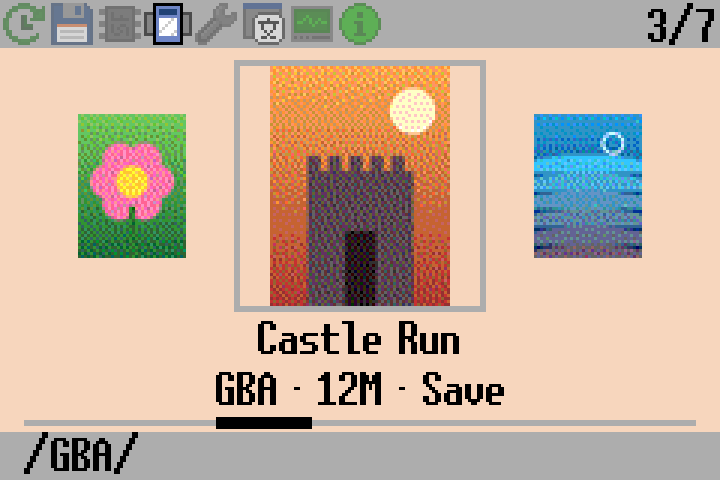
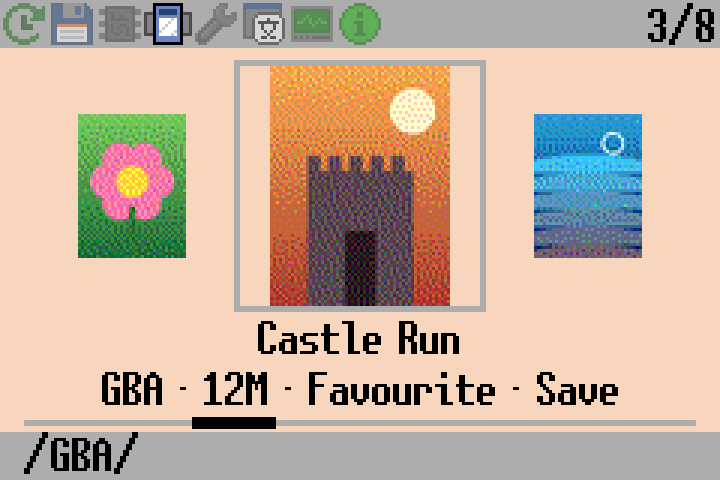
README: view (Start) and favourites, with pictures
- New README sections for the view (Show, Sort by, which file types make
  which system, the top bar, the card root tip) and the favourites.
- tools/carousel-preview.py: --view (a system or Favourites), --sort,
  --popup (the Start pop up), the Favourite tag and the view in the top bar.
- docs/images: the view pop up and a GB/GBC view; the example card has two
  favourites and a second GBC game.

diff --git a/tools/carousel-preview.py b/tools/carousel-preview.py
@@ -99,6 +99,7 @@ class Screen:
   def __init__(self, theme):
     self.px = bytearray([BG]) * (W * H)
     self.objs = []
+    self.bands = []       # Selection highlight rows (icon 63: the highlight color, 50% blended)
     self.theme = theme
 
   def fill(self, left, top, w, h, color):
@@ -151,6 +152,9 @@ class Screen:
       pal[mc.PAL_BASE + i] = c
     img = Image.new("RGB", (W, H))
     img.putdata([pal.get(p, (255, 255, 255)) for p in self.px])
+    for y in self.bands:
+      box = (0, y, W, min(y + 16, H))
+      img.paste(Image.blend(img.crop(box), Image.new("RGB", (W, box[3] - y), pal[HI]), 0.5), box)
     for x, y, n, trans in self.objs:
       ic = icons.crop((n * 16, 0, n * 16 + 16, 16))
       if trans:   # 50% alpha blending (REG_BLDALPHA = 0x0808)
@@ -158,6 +162,19 @@ class Screen:
         ic.putalpha(a)
       img.paste(ic, (x, y), ic)
     return img
+
+# Carousel systems (car_view / "Sort by system"): GBA, then the emulator
+# groups in src/emu.c order.
+SYSTEMS = [("GBA", ("gba",)), ("GB/GBC", ("gb", "gbc")), ("NES", ("nes",)), ("SMS", ("sms",)),
+           ("GG", ("gg",)), ("SG", ("sg",)), ("SV", ("sv",)), ("NGC", ("ngc",)), ("PCE", ("pce",))]
+SORTS = ["Name", "System", "Recently played"]
+
+def system_of(fn):
+  ext = os.path.splitext(fn)[1][1:].lower()
+  for i, (_, exts) in enumerate(SYSTEMS):
+    if ext in exts:
+      return i
+  return 0
 
 def guessicon(fn):
   ext = os.path.splitext(fn)[1][1:].lower()
@@ -185,12 +202,30 @@ def fade(c, target):
     out |= cc << sh
   return out
 
-def render(games, covers, sel, offset, cpath, theme, icons, tint=None, info=None, letter=False):
+def render_view_popup(s, view, sort, row):
+  # Like render_carousel_view(): the Start pop up over the plain background.
+  s.fill(0, 16, W, H - 16, BG)
+  for y in (18, 19, 156, 157):
+    s.fill(2, y, W - 4, 1, FG)
+  s.fill(2, 18, 2, 140, FG)
+  s.fill(W - 4, 18, 2, 140, FG)
+  for i, (label, value) in enumerate((("Show", view), ("Sort by", sort))):
+    y = 34 + i * 54
+    s.central(label, W // 2, y)
+    s.central("< %s >" % value, W // 2, y + 20)
+    if i == row:
+      s.bands.append(y + 20)
+
+def render(games, covers, sel, offset, cpath, theme, icons, tint=None, info=None, letter=False,
+           view=None, popup=None):
   s = Screen(theme)
   # Tab bar
   s.fill(0, 0, W, 16, FG)
   for i, ic in enumerate(TAB_ICONS):
     s.icon(i * 16, 0, ic, i != CAROUSEL_TAB)
+  if popup:
+    render_view_popup(s, *popup)
+    return s.image(icons, tint)
   s.fill(0, 16, W, 128, CAR_BG)
   # Bottom bar: folder of the selected game
   s.fill(0, 144, W, 16, FG)
@@ -234,6 +269,8 @@ def render(games, covers, sel, offset, cpath, theme, icons, tint=None, info=None
     s.text(title, 8, 105, maxw=W - 8)
   parts = [os.path.splitext(fn)[1][1:].upper(), human_size(fs)]
   if info and offset == 0:
+    if info.get("fav"):
+      parts.append("Favourite")
     if info.get("save"):
       parts.append("Save")
     if info.get("last"):
@@ -246,7 +283,10 @@ def render(games, covers, sel, offset, cpath, theme, icons, tint=None, info=None
     x = 8 + (((track - w) * sel // (len(games) - 1)) & ~1)
     s.fill(8, 140, track, 2, FG)
     s.fill(x, 139, w, 4, FT)
-  s.rightj("%d/%d" % (sel + 1, len(games)), W - 1, 1)
+  pos = "%d/%d" % (sel + 1, len(games))
+  if view and text_width("%s %s" % (view, pos)) <= 92:    # Next to the tab icons
+    pos = "%s %s" % (view, pos)
+  s.rightj(pos, W - 1, 1)
 
   if letter:
     ch = title[:1].upper()
@@ -278,7 +318,14 @@ def game_info(sdroot, games, n):
           break
   except OSError:
     pass
-  return {"save": save, "last": last}
+  return {"save": save, "last": last, "fav": folder + fn in favourites(sdroot)}
+
+def favourites(sdroot):
+  try:
+    with open(os.path.join(sdroot, ".superfw", "favorites.txt"), encoding="utf-8") as fd:
+      return {line.rstrip("\r\n") for line in fd}
+  except OSError:
+    return set()
 
 def main():
   p = argparse.ArgumentParser()
@@ -290,6 +337,10 @@ def main():
   p.add_argument("--theme", type=int, default=0)
   p.add_argument("--scale", type=int, default=3)
   p.add_argument("--letter", action="store_true", help="Show the big letter (as after an Up/Down jump)")
+  p.add_argument("--view", default=None, help="Show only: Favourites or a system (GBA, GB/GBC, NES...)")
+  p.add_argument("--sort", default="Name", choices=SORTS, help="Order of the games")
+  p.add_argument("--popup", type=int, default=None, metavar="ROW",
+                 help="Show the Start pop up (view and sort) with this row selected (0 or 1)")
   a = p.parse_args()
 
   romdir = os.path.join(a.sdroot, a.romdir.strip("/\\"))
@@ -307,6 +358,15 @@ def main():
       if not fn.startswith(".") and ext in mc.SYSTEMS:
         games.append((fn, os.path.getsize(full), folder, full))
   games.sort(key=lambda g: g[0].lower())
+
+  # View (Start): filter and order, like carousel_build_view().
+  if a.view == "Favourites":
+    favs = favourites(a.sdroot)
+    games = [g for g in games if g[2] + g[0] in favs]
+  elif a.view:
+    games = [g for g in games if SYSTEMS[system_of(g[0])][0] == a.view]
+  if a.sort == "System":
+    games.sort(key=lambda g: system_of(g[0]))     # Stable: by name within a system
 
   # Same lookup as carousel_open_cover(): <file name>.cov, then <game code>.cov
   covers = {}
@@ -328,7 +388,9 @@ def main():
   sel = min(a.select, max(0, len(games) - 1))
   tint = target_tint(a.theme, covers.get(games[sel][3])) if games else None
   info = game_info(a.sdroot, games, sel) if games else None
-  up(render(games, covers, sel, 0, cpath, a.theme, icons, tint, info, a.letter)).save(a.out)
+  popup = (a.view or "All games", a.sort, a.popup) if a.popup is not None else None
+  up(render(games, covers, sel, 0, cpath, a.theme, icons, tint, info, a.letter,
+            a.view, popup)).save(a.out)
   print("Wrote", a.out)
 
   if a.gif and games:

diff --git a/docs/images/make-examples.py b/docs/images/make-examples.py
@@ -27,6 +27,7 @@ GAMES = [
   ("Deep Blue Dive.gba",   ((40, 160, 220), (5, 30, 90)),   "waves"),
   ("Ember Knight.gba",     ((60, 10, 10), (220, 90, 20)),   "sword"),
   ("Frost Peak.gbc",       ((200, 230, 255), (90, 140, 210)), "mountain"),
+  ("Moon Garden.gbc",      ((20, 30, 70), (70, 40, 110)),   "moon"),
   ("Pixel Racer.nes",      ((250, 220, 60), (230, 120, 20)), "stripes"),
 ]
 
@@ -72,6 +73,12 @@ def cover(colors, kind, w=240, h=320):
     d.polygon([(0, 320), (120, 90), (240, 320)], fill=(70, 90, 140))
     d.polygon([(120, 90), (90, 150), (110, 140), (130, 155), (150, 145)], fill=(250, 250, 255))
     d.ellipse((170, 30, 215, 75), fill=(255, 250, 220))
+  elif kind == "moon":
+    d.ellipse((60, 50, 180, 170), fill=(250, 240, 190))
+    d.ellipse((95, 40, 205, 150), fill=(20, 30, 70))
+    for x in range(0, 240, 30):
+      d.ellipse((x, 250, x + 40, 290), fill=(60, 140, 80))
+      d.rectangle((x + 18, 270, x + 22, 320), fill=(40, 100, 50))
   elif kind == "stripes":
     for i in range(6):
       d.polygon([(i * 60 - 80, 320), (i * 60 - 20, 320), (i * 60 + 100, 0), (i * 60 + 40, 0)],
@@ -92,14 +99,20 @@ def main():
         fd.truncate((4 << 20) * (1 + i % 4))        # Only the size is used
       with open(os.path.join(covers, fn + ".cov"), "wb") as fd:
         fd.write(mc.cover_bytes(cover(colors, kind)))
-    # A save for one of them (shown in the info line).
+    # A save for one of them (shown in the info line), and two favourites.
     open(os.path.join(gba, "Castle Run.sav"), "wb").close()
+    os.makedirs(os.path.join(sd, ".superfw"), exist_ok=True)
+    with open(os.path.join(sd, ".superfw", "favorites.txt"), "w", encoding="utf-8") as fd:
+      fd.write("/GBA/Castle Run.gba\n/GBA/Frost Peak.gbc\n")
 
     preview = [sys.executable, os.path.join(TOOLS, "carousel-preview.py"), sd, "/GBA/"]
     run = lambda *args: subprocess.run(preview + list(args), check=True)
     run(os.path.join(HERE, "carousel.png"), "--select", "2", "--scale", "3")
     run(os.path.join(HERE, "carousel-letter.png"), "--select", "4", "--scale", "3", "--letter")
     run(os.path.join(HERE, "carousel-theme.png"), "--select", "5", "--scale", "3", "--theme", "3")
+    # Start: the view pop up, and the favourites view.
+    run(os.path.join(HERE, "carousel-view.png"), "--scale", "3", "--view", "GB/GBC", "--popup", "0")
+    run(os.path.join(HERE, "carousel-gbc.png"), "--scale", "3", "--view", "GB/GBC")
     run(os.path.join(HERE, "carousel-scroll.png"), "--scale", "2",
         "--gif", os.path.join(HERE, "carousel.gif"))
     os.remove(os.path.join(HERE, "carousel-scroll.png"))

diff --git a/README.md b/README.md
@@ -65,10 +65,7 @@ of box art covers sorted by name:
    flash). For games already in flash it offers "Remove from flash" (same as
    the flash tab) and "Load from SD card" instead, and shows the flash usage.
    "Add to favourites" / "Remove from favourites" is there too.
- - Start: the view. "Show" picks the games: all of them, the favourites, or
-   one system (GBA, GB/GBC, NES, SMS...: only the ones on the card). "Sort by"
-   picks the order: name, system (games grouped by emulator) or recently
-   played. The top bar shows the view (ie. "NES 3/12"); it is remembered.
+ - Start: the view, which games are shown and in which order (see below).
  - L/R switch tabs.
 
 ![The carousel tab](docs/images/carousel.png)
@@ -83,6 +80,38 @@ The games and covers in these pictures are made up (drawn by
 `docs/images/make-examples.py`, so no real box art is in the repository); the
 screens are rendered by `tools/carousel-preview.py` with the firmware's layout
 and assets.
+
+### View: which games, in which order (Start)
+
+Start opens the view. Up/Down picks the row, Left/Right changes it, A or Start
+closes it. It is remembered (in `ui-settings.txt`).
+
+ - Show: all games, the favourites, or one system. The systems come from the
+   file types, not the folder names, and only the ones there are games for
+   are offered: GBA (`.gba`), GB/GBC (`.gb`, `.gbc`: one emulator), NES
+   (`.nes`), SMS (`.sms`), GG (`.gg`), SG (`.sg`), SV (`.sv`), NGC (`.ngc`)
+   and PCE (`.pce`).
+ - Sort by: name, system (the games grouped by emulator; Up/Down then jump
+   from one system to the next) or recently played (Up/Down move 5 games).
+
+When not all games are shown, the top bar shows the view next to the position
+(ie. "GB/GBC 1/2"), if it fits.
+
+| The view (Start) | Only the GB/GBC games |
+|---|---|
+| ![The view pop up](docs/images/carousel-view.png) | ![GB/GBC view](docs/images/carousel-gbc.png) |
+
+The carousel lists the folder open in the SD browser and its subfolders. To
+have every game on the card in it (and filter them with Show), open the root
+of the card (`/`) in the SD browser before switching to the carousel.
+
+### Favourites
+
+Select > "Add to favourites" (or "Remove from favourites") in the carousel.
+Favourites show "Favourite" in the info line and have their own view (Show >
+Favourites). They are kept in `/.superfw/favorites.txt`, one full path per
+line, so they can also be edited on a PC. A game that is renamed or moved is
+no longer a favourite (the recent list works the same way).
 
 The background takes the color of the selected cover. Below the title it shows
 the system, the size, whether there is a save file, whether it is the last
